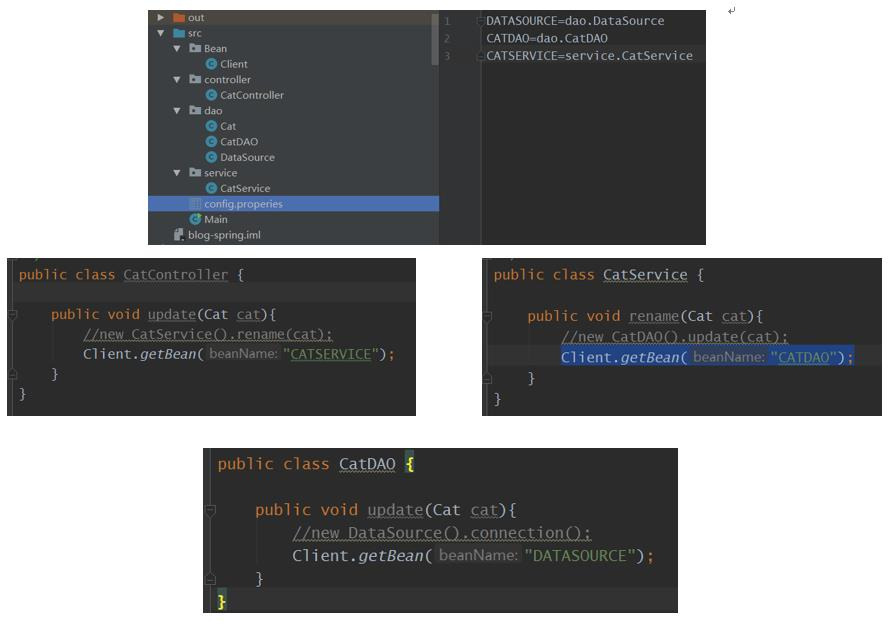
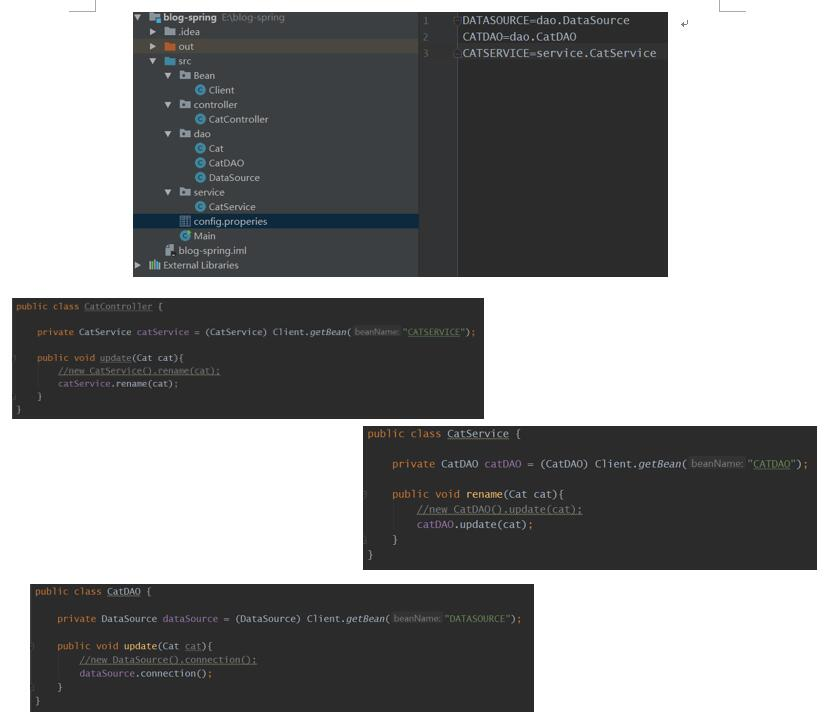
Site updated: 2018-12-04 22:56:50

diff --git a/2018/12/03/熟练运用spring(1)-入门篇/index.html b/2018/12/03/熟练运用spring(1)-入门篇/index.html
@@ -96,7 +96,7 @@
 <meta property="og:locale" content="zh-Hans">
 <meta property="og:image" content="http://wwwwjl.github.io/images/spring1.1.jpg">
 <meta property="og:image" content="http://wwwwjl.github.io/images/spring1.2.jpg">
-<meta property="og:updated_time" content="2018-12-04T02:05:19.600Z">
+<meta property="og:updated_time" content="2018-12-04T14:56:07.962Z">
 <meta name="twitter:card" content="summary">
 <meta name="twitter:title" content="熟练运用spring(一)：概述">
 <meta name="twitter:description" content="熟练运用spring(一)：概述 &amp;nbsp;&amp;nbsp;Spring是一个开放源代码的设计层面框架，他解决的是业务逻辑层和其他各层的松耦合问题，因此它将面向接口的编程思想贯穿整个系统应用。 Spring是于2003 年兴起的一个轻量级的Java 开发框架，由Rod Johnson创建。简单来说，Spring是一个分层的JavaSE/EE full-stack(一站式) 轻量级开源框架。 1、sp">
@@ -354,7 +354,7 @@
                   </span>
                 
                 <span title="字数统计">
-                  826字
+                  1.2k字
                 </span>
               
 
@@ -370,7 +370,7 @@
                   <span class="post-meta-item-text">阅读时长 &asymp;</span>
                 
                 <span title="阅读时长">
-                  3分钟
+                  4分钟
                 </span>
               
             </div>
@@ -397,8 +397,12 @@
 <p><img src="\images\spring1.1.jpg" alt="123123"></p>
 <p>如上，可以看到，三层代码之间的调用，每层调用之前都要new对象，很麻烦，而且如果对象的地址发生了改变，需要修改多处，这就是高耦合带来的诸多问题之一。</p>
 <h3 id="3、工厂模式解耦-基本版"><a href="#3、工厂模式解耦-基本版" class="headerlink" title="3、工厂模式解耦-基本版"></a>3、工厂模式解耦-基本版</h3><p>&nbsp;&nbsp;接下来我们来运用常用设计模式-<strong>工厂模式</strong>来进行优化。  </p>
-<p>思路：将之前创建对象的工作由一个类负责，把创建这个控制动作反转给这个类，同时创建一个文件，通过k-v的形式预定义好，负责创建对象类通过读取文件，通过传入方法参数，反射创建对象。<br><figure class="highlight plain"><table><tr><td class="gutter"><pre><span class="line">1</span><br><span class="line">2</span><br><span class="line">3</span><br><span class="line">4</span><br><span class="line">5</span><br><span class="line">6</span><br><span class="line">7</span><br><span class="line">8</span><br><span class="line">9</span><br><span class="line">10</span><br><span class="line">11</span><br><span class="line">12</span><br><span class="line">13</span><br><span class="line">14</span><br><span class="line">15</span><br><span class="line">16</span><br><span class="line">17</span><br><span class="line">18</span><br><span class="line">19</span><br><span class="line">20</span><br><span class="line">21</span><br><span class="line">22</span><br><span class="line">23</span><br><span class="line">24</span><br><span class="line">25</span><br><span class="line">26</span><br></pre></td><td class="code"><pre><span class="line">public class Client &#123;</span><br><span class="line"></span><br><span class="line">    private static Properties properties;</span><br><span class="line"></span><br><span class="line">    public static void load()&#123;</span><br><span class="line">        properties = new Properties();</span><br><span class="line">        try &#123;</span><br><span class="line">            properties.load(new FileInputStream(&quot;classpath:config.properies&quot;));</span><br><span class="line">        &#125; catch (IOException e) &#123;</span><br><span class="line">            e.printStackTrace();</span><br><span class="line">        &#125;</span><br><span class="line">    &#125;</span><br><span class="line"></span><br><span class="line">    public static Object getBean(String beanName)&#123;</span><br><span class="line">        if(properties == null)&#123;</span><br><span class="line">            load();</span><br><span class="line">        &#125;</span><br><span class="line">        String beanPath = properties.getProperty(beanName);</span><br><span class="line">        try &#123;</span><br><span class="line">            return Class.forName(beanName).newInstance();</span><br><span class="line">        &#125; catch (Exception e) &#123;</span><br><span class="line">            e.printStackTrace();</span><br><span class="line">        &#125;</span><br><span class="line">        return null;</span><br><span class="line">    &#125;</span><br><span class="line">&#125;</span><br></pre></td></tr></table></figure></p>
+<p>思路：将之前创建对象的工作由一个类负责，把创建这个控制动作反转给这个类，同时创建一个文件，通过k-v的形式预定义好，负责创建对象类通过读取文件，通过传入方法参数，反射创建对象。<br><figure class="highlight plain"><table><tr><td class="gutter"><pre><span class="line">1</span><br><span class="line">2</span><br><span class="line">3</span><br><span class="line">4</span><br><span class="line">5</span><br><span class="line">6</span><br><span class="line">7</span><br><span class="line">8</span><br><span class="line">9</span><br><span class="line">10</span><br><span class="line">11</span><br><span class="line">12</span><br><span class="line">13</span><br><span class="line">14</span><br><span class="line">15</span><br><span class="line">16</span><br><span class="line">17</span><br><span class="line">18</span><br><span class="line">19</span><br><span class="line">20</span><br><span class="line">21</span><br><span class="line">22</span><br><span class="line">23</span><br><span class="line">24</span><br><span class="line">25</span><br><span class="line">26</span><br></pre></td><td class="code"><pre><span class="line">public class Client &#123;</span><br><span class="line"></span><br><span class="line">    private static Properties properties;</span><br><span class="line"></span><br><span class="line">    public static void load()&#123;</span><br><span class="line">        properties = new Properties();</span><br><span class="line">        try &#123;</span><br><span class="line">            properties.load(new FileInputStream(&quot;E://blog-spring//src//config.properies&quot;));</span><br><span class="line">        &#125; catch (IOException e) &#123;</span><br><span class="line">            e.printStackTrace();</span><br><span class="line">        &#125;</span><br><span class="line">    &#125;</span><br><span class="line"></span><br><span class="line">    public static Object getBean(String beanName)&#123;</span><br><span class="line">        if(properties == null)&#123;</span><br><span class="line">            load();</span><br><span class="line">        &#125;</span><br><span class="line">        String beanPath = properties.getProperty(beanName);</span><br><span class="line">        try &#123;</span><br><span class="line">            return Class.forName(beanName).newInstance();//每次都创建对象</span><br><span class="line">        &#125; catch (Exception e) &#123;</span><br><span class="line">            e.printStackTrace();</span><br><span class="line">        &#125;</span><br><span class="line">        return null;</span><br><span class="line">    &#125;</span><br><span class="line">&#125;</span><br></pre></td></tr></table></figure></p>
 <p><img src="\images\spring1.2.jpg" alt="123123"></p>
+<h3 id="4、工厂模式解耦-升级版"><a href="#4、工厂模式解耦-升级版" class="headerlink" title="4、工厂模式解耦-升级版"></a>4、工厂模式解耦-升级版</h3><p>&nbsp;&nbsp;在刚才的代码中，client类控制了创建对象这件事，彻底从中解耦了出来，但是每次调用client类创建对象时，都是重新创建对象，若代码量上来，对jvm内存实在是一种挑战，接下来我们采用<strong>单例模式</strong>来进行优化。<br><figure class="highlight plain"><table><tr><td class="gutter"><pre><span class="line">1</span><br><span class="line">2</span><br><span class="line">3</span><br><span class="line">4</span><br><span class="line">5</span><br><span class="line">6</span><br><span class="line">7</span><br><span class="line">8</span><br><span class="line">9</span><br><span class="line">10</span><br><span class="line">11</span><br><span class="line">12</span><br><span class="line">13</span><br><span class="line">14</span><br><span class="line">15</span><br><span class="line">16</span><br><span class="line">17</span><br><span class="line">18</span><br><span class="line">19</span><br><span class="line">20</span><br><span class="line">21</span><br><span class="line">22</span><br><span class="line">23</span><br><span class="line">24</span><br><span class="line">25</span><br><span class="line">26</span><br><span class="line">27</span><br><span class="line">28</span><br><span class="line">29</span><br><span class="line">30</span><br><span class="line">31</span><br><span class="line">32</span><br></pre></td><td class="code"><pre><span class="line">public class Client &#123;</span><br><span class="line"></span><br><span class="line">    private static Properties properties;</span><br><span class="line"></span><br><span class="line">    /**</span><br><span class="line">     * 对象容器</span><br><span class="line">     */</span><br><span class="line">    private static Map&lt;String,Object&gt; map = new HashMap&lt;&gt;();</span><br><span class="line"></span><br><span class="line">    static &#123;</span><br><span class="line">        load();</span><br><span class="line">    &#125;</span><br><span class="line"></span><br><span class="line">    public static void load()&#123;</span><br><span class="line">        properties = new Properties();</span><br><span class="line">        try &#123;</span><br><span class="line">            properties.load(new FileInputStream(&quot;E://blog-spring//src//config.properies&quot;));</span><br><span class="line">            Enumeration keys = properties.keys();</span><br><span class="line">            while (keys.hasMoreElements())&#123;</span><br><span class="line">                String key = (String) keys.nextElement();</span><br><span class="line">                Object value = Class.forName(properties.getProperty(key));</span><br><span class="line">                map.put(key,value);</span><br><span class="line">            &#125;</span><br><span class="line">        &#125; catch (Exception e) &#123;</span><br><span class="line">            System.out.println(&quot;容器初始化失败&quot;);</span><br><span class="line">        &#125;</span><br><span class="line">    &#125;</span><br><span class="line"></span><br><span class="line">    public static Object getBean(String beanName)&#123;</span><br><span class="line">        return map.get(beanName);</span><br><span class="line">    &#125;</span><br><span class="line">&#125;</span><br></pre></td></tr></table></figure></p>
+<p>&nbsp;&nbsp;单例模式虽好，但是会存在线程安全性问题，比如1个对象持有1个变量并加载到容器中，这里若任意线程对其变量进行了修改，如变量没有被volatile修饰，则其他线程则有可能无法感知到该变量已发生变化等等。  </p>
+<hr>
+<p>  &nbsp;&nbsp;至此，第1章的内容已结束了，我们也在最后一个demo中看到了spring的影子，给大家留个小问题：<br>  &nbsp;&nbsp;&nbsp;&nbsp;在你日常使用spring中，有没有在对象中定义变量且使用过呢？<br>  &nbsp;&nbsp;&nbsp;&nbsp;请在留言区留言呦~</p>
 
       
     </div>
@@ -628,7 +632,7 @@
             
 
             
-              <div class="post-toc-content"><ol class="nav"><li class="nav-item nav-level-2"><a class="nav-link" href="#熟练运用spring-一-：概述"><span class="nav-number">1.</span> <span class="nav-text">熟练运用spring(一)：概述</span></a><ol class="nav-child"><li class="nav-item nav-level-3"><a class="nav-link" href="#1、spring的优势有哪些？"><span class="nav-number">1.1.</span> <span class="nav-text">1、spring的优势有哪些？</span></a></li><li class="nav-item nav-level-3"><a class="nav-link" href="#2、什么叫程序的耦合？"><span class="nav-number">1.2.</span> <span class="nav-text">2、什么叫程序的耦合？</span></a></li><li class="nav-item nav-level-3"><a class="nav-link" href="#3、工厂模式解耦-基本版"><span class="nav-number">1.3.</span> <span class="nav-text">3、工厂模式解耦-基本版</span></a></li></ol></li></ol></div>
+              <div class="post-toc-content"><ol class="nav"><li class="nav-item nav-level-2"><a class="nav-link" href="#熟练运用spring-一-：概述"><span class="nav-number">1.</span> <span class="nav-text">熟练运用spring(一)：概述</span></a><ol class="nav-child"><li class="nav-item nav-level-3"><a class="nav-link" href="#1、spring的优势有哪些？"><span class="nav-number">1.1.</span> <span class="nav-text">1、spring的优势有哪些？</span></a></li><li class="nav-item nav-level-3"><a class="nav-link" href="#2、什么叫程序的耦合？"><span class="nav-number">1.2.</span> <span class="nav-text">2、什么叫程序的耦合？</span></a></li><li class="nav-item nav-level-3"><a class="nav-link" href="#3、工厂模式解耦-基本版"><span class="nav-number">1.3.</span> <span class="nav-text">3、工厂模式解耦-基本版</span></a></li><li class="nav-item nav-level-3"><a class="nav-link" href="#4、工厂模式解耦-升级版"><span class="nav-number">1.4.</span> <span class="nav-text">4、工厂模式解耦-升级版</span></a></li></ol></li></ol></div>
             
 
           </div>
@@ -662,7 +666,7 @@
     
       <span class="post-meta-item-text">Site words total count&#58;</span>
     
-    <span title="Site words total count">1.7k</span>
+    <span title="Site words total count">2.1k</span>
   
 </div>
 

diff --git a/index.html b/index.html
@@ -542,7 +542,7 @@
                   </span>
                 
                 <span title="字数统计">
-                  826字
+                  1.2k字
                 </span>
               
 
@@ -558,7 +558,7 @@
                   <span class="post-meta-item-text">阅读时长 &asymp;</span>
                 
                 <span title="阅读时长">
-                  3分钟
+                  4分钟
                 </span>
               
             </div>
@@ -948,7 +948,7 @@
     
       <span class="post-meta-item-text">Site words total count&#58;</span>
     
-    <span title="Site words total count">1.7k</span>
+    <span title="Site words total count">2.1k</span>
   
 </div>
 

diff --git a/2018/12/01/J.U.C常用工具类CountDownLatch/index.html b/2018/12/01/J.U.C常用工具类CountDownLatch/index.html
@@ -647,7 +647,7 @@
     
       <span class="post-meta-item-text">Site words total count&#58;</span>
     
-    <span title="Site words total count">1.7k</span>
+    <span title="Site words total count">2.1k</span>
   
 </div>
 

diff --git a/2018/12/03/markdown写作语法/index.html b/2018/12/03/markdown写作语法/index.html
@@ -759,7 +759,7 @@
     
       <span class="post-meta-item-text">Site words total count&#58;</span>
     
-    <span title="Site words total count">1.7k</span>
+    <span title="Site words total count">2.1k</span>
   
 </div>
 

diff --git a/about/index.html b/about/index.html
@@ -430,7 +430,7 @@
     
       <span class="post-meta-item-text">Site words total count&#58;</span>
     
-    <span title="Site words total count">1.7k</span>
+    <span title="Site words total count">2.1k</span>
   
 </div>
 

diff --git a/archives/2018/12/index.html b/archives/2018/12/index.html
@@ -503,7 +503,7 @@
     
       <span class="post-meta-item-text">Site words total count&#58;</span>
     
-    <span title="Site words total count">1.7k</span>
+    <span title="Site words total count">2.1k</span>
   
 </div>
 

diff --git a/archives/2018/index.html b/archives/2018/index.html
@@ -503,7 +503,7 @@
     
       <span class="post-meta-item-text">Site words total count&#58;</span>
     
-    <span title="Site words total count">1.7k</span>
+    <span title="Site words total count">2.1k</span>
   
 </div>
 

diff --git a/archives/index.html b/archives/index.html
@@ -503,7 +503,7 @@
     
       <span class="post-meta-item-text">Site words total count&#58;</span>
     
-    <span title="Site words total count">1.7k</span>
+    <span title="Site words total count">2.1k</span>
   
 </div>
 

diff --git a/categories/index.html b/categories/index.html
@@ -412,7 +412,7 @@
     
       <span class="post-meta-item-text">Site words total count&#58;</span>
     
-    <span title="Site words total count">1.7k</span>
+    <span title="Site words total count">2.1k</span>
   
 </div>
 

diff --git a/categories/markdown/index.html b/categories/markdown/index.html
@@ -414,7 +414,7 @@
     
       <span class="post-meta-item-text">Site words total count&#58;</span>
     
-    <span title="Site words total count">1.7k</span>
+    <span title="Site words total count">2.1k</span>
   
 </div>
 

diff --git a/categories/并发编程/index.html b/categories/并发编程/index.html
@@ -414,7 +414,7 @@
     
       <span class="post-meta-item-text">Site words total count&#58;</span>
     
-    <span title="Site words total count">1.7k</span>
+    <span title="Site words total count">2.1k</span>
   
 </div>
 

diff --git a/categories/熟练运用pring/index.html b/categories/熟练运用pring/index.html
@@ -414,7 +414,7 @@
     
       <span class="post-meta-item-text">Site words total count&#58;</span>
     
-    <span title="Site words total count">1.7k</span>
+    <span title="Site words total count">2.1k</span>
   
 </div>
 
